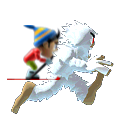
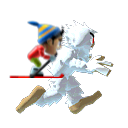
合并拉取请求 #72
* Merge branch 'main' into stone

* 动态贴图

* Merge remote-tracking branch 'origin/stone' into stone

* 动态贴图

* Merge branch 'main' into stone

Changed region(s): [[0.0312, 0.1562, 0.9062, 0.9062]]

diff --git a/src/player.cpp b/src/player.cpp
@@ -80,6 +80,7 @@ Player::Player(QGraphicsItem *parent)
       m_currentInventoryCapacity(1),
       m_isRidingYeti(false), // 初始化为未骑乘雪怪
       m_yetiForm(NPCForm::Normal), // 初始化雪怪形态为普通
+      m_yetiForm1CurrentFrame(0), // 初始化雪怪形态1动画帧
       m_ridingTexturesLoaded(false) // 初始化骑乘贴图加载状态
 {
     setZValue(-2);
@@ -198,10 +199,16 @@ void Player::updateAnimation() {
         // 确保帧索引在有效范围内
         if (actualFrame >= 0 && actualFrame < m_animationFrames.size()) {
             m_currentFrame = actualFrame;
-            // 触发重绘
-            update();
         }
     }
+    
+    // 更新雪怪形态1的骑乘动画帧
+    if (m_isRidingYeti && m_yetiForm == NPCForm::YetiForm1 && !m_yetiForm1RidingFrames.isEmpty()) {
+        m_yetiForm1CurrentFrame = (m_yetiForm1CurrentFrame + 1) % m_yetiForm1RidingFrames.size();
+    }
+    
+    // 触发重绘
+    update();
 }
 
 void Player::keyPressEvent(QKeyEvent *event) {
@@ -1285,15 +1292,23 @@ void Player::loadRidingTextures() {
         DEBUG_LOG(QString("Failed to load penguin riding texture: %1").arg(penguinPath));
     } else {
         DEBUG_LOG("Successfully loaded penguin riding texture");
+    }    // 加载骑乘雪怪形态1动画帧（8张）
+    m_yetiForm1RidingFrames.clear();
+    QString yetiForm1BasePath = ":/resource/images/npcs/yeti/yetiplayer_running/";
+    for (int i = 1; i <= 8; ++i) {
+        QString yetiForm1Path = yetiForm1BasePath + QString("yetiplayerrunning%1.png").arg(i);
+        QPixmap yetiFrame = QPixmap(yetiForm1Path);
+        if (!yetiFrame.isNull()) {
+            m_yetiForm1RidingFrames.append(yetiFrame);
+            DEBUG_LOG(QString("Successfully loaded yeti form1 riding frame %1").arg(i));
+        } else {
+            DEBUG_LOG(QString("Failed to load yeti form1 riding frame %1: %2").arg(i).arg(yetiForm1Path));
+        }
     }
-
-    // 加载骑乘雪怪形态1贴图
-    QString yetiForm1Path = ":/resource/images/npcs/yeti/yetiplayer_running/yetiplayerrunning1.png";
-    m_yetiForm1RidingTexture = QPixmap(yetiForm1Path);
-    if (m_yetiForm1RidingTexture.isNull()) {
-        DEBUG_LOG(QString("Failed to load yeti form1 riding texture: %1").arg(yetiForm1Path));
+    if (m_yetiForm1RidingFrames.size() == 8) {
+        DEBUG_LOG("Successfully loaded all 8 yeti form1 riding animation frames");
     } else {
-        DEBUG_LOG("Successfully loaded yeti form1 riding texture");
+        DEBUG_LOG(QString("Only loaded %1 out of 8 yeti form1 riding frames").arg(m_yetiForm1RidingFrames.size()));
     }
 
     // 加载骑乘雪怪形态2贴图
@@ -1312,11 +1327,9 @@ void Player::loadRidingTextures() {
         DEBUG_LOG(QString("Failed to load yeti form2 with penguin texture: %1").arg(yetiPenguinPath));
     } else {
         DEBUG_LOG("Successfully loaded yeti form2 with penguin texture");
-    }
-
-    // 检查是否至少加载了一些贴图
+    }    // 检查是否至少加载了一些贴图
     m_ridingTexturesLoaded = !m_penguinRidingTexture.isNull() ||
-                            !m_yetiForm1RidingTexture.isNull() ||
+                            !m_yetiForm1RidingFrames.isEmpty() ||
                             !m_yetiForm2RidingTexture.isNull() ||
                             !m_yetiForm2WithPenguinTexture.isNull();
 
@@ -1342,11 +1355,16 @@ QPixmap Player::getCurrentRidingTexture() const {
         if (m_yetiForm == NPCForm::YetiForm2 && getCarriedPenguinCount() > 0) {
             DEBUG_LOG("Using yeti form2 with penguin riding texture");
             return m_yetiForm2WithPenguinTexture;
-        }
-        // 根据雪怪形态返回对应贴图
+        }        // 根据雪怪形态返回对应贴图
         else if (m_yetiForm == NPCForm::YetiForm1) {
-            DEBUG_LOG("Using yeti form1 riding texture");
-            return m_yetiForm1RidingTexture;
+            // 返回当前动画帧
+            if (!m_yetiForm1RidingFrames.isEmpty()) {
+                int frameIndex = m_yetiForm1CurrentFrame % m_yetiForm1RidingFrames.size();
+                DEBUG_LOG(QString("Using yeti form1 riding texture frame %1").arg(frameIndex + 1));
+                return m_yetiForm1RidingFrames[frameIndex];
+            }
+            DEBUG_LOG("Yeti form1 riding frames not loaded, returning empty texture");
+            return QPixmap();
         }
         else if (m_yetiForm == NPCForm::YetiForm2) {
             DEBUG_LOG("Using yeti form2 riding texture");

diff --git a/include/player.h b/include/player.h
@@ -180,10 +180,10 @@ private:
     QTimer m_animationTimer;            // 动画播放定时器
     bool m_animationLoaded;             // 动画是否成功加载的标志
     qreal m_imageScaleFactor;           // 图像缩放因子，用于调整显示大小
-    
-    // NPC骑乘状态动画资源
+      // NPC骑乘状态动画资源
     QPixmap m_penguinRidingTexture;     // 骑乘企鹅动画
-    QPixmap m_yetiForm1RidingTexture;   // 雪怪形态1骑乘动画
+    QVector<QPixmap> m_yetiForm1RidingFrames; // 雪怪形态1骑乘动画帧（8张）
+    int m_yetiForm1CurrentFrame;        // 雪怪形态1当前动画帧
     QPixmap m_yetiForm2RidingTexture;   // 雪怪形态2骑乘动画
     QPixmap m_yetiForm2WithPenguinTexture; // 雪怪形态2+企鹅动画
     bool m_ridingTexturesLoaded;        // 骑乘贴图是否加载成功
